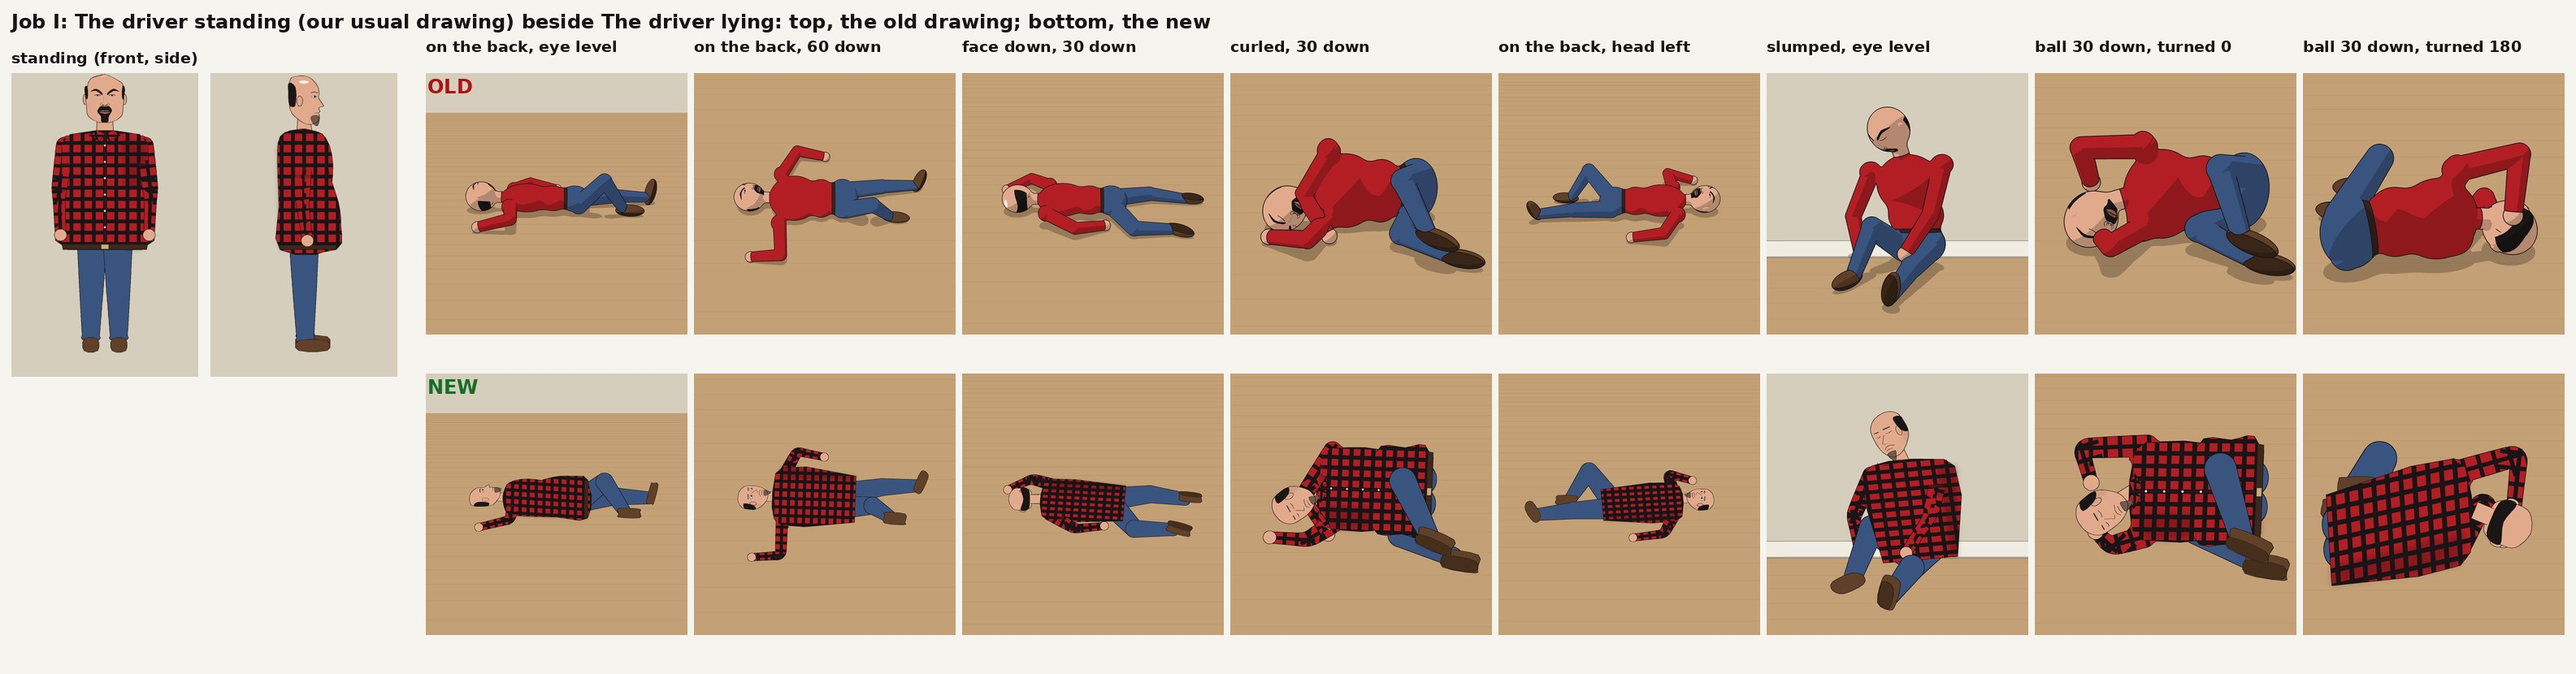
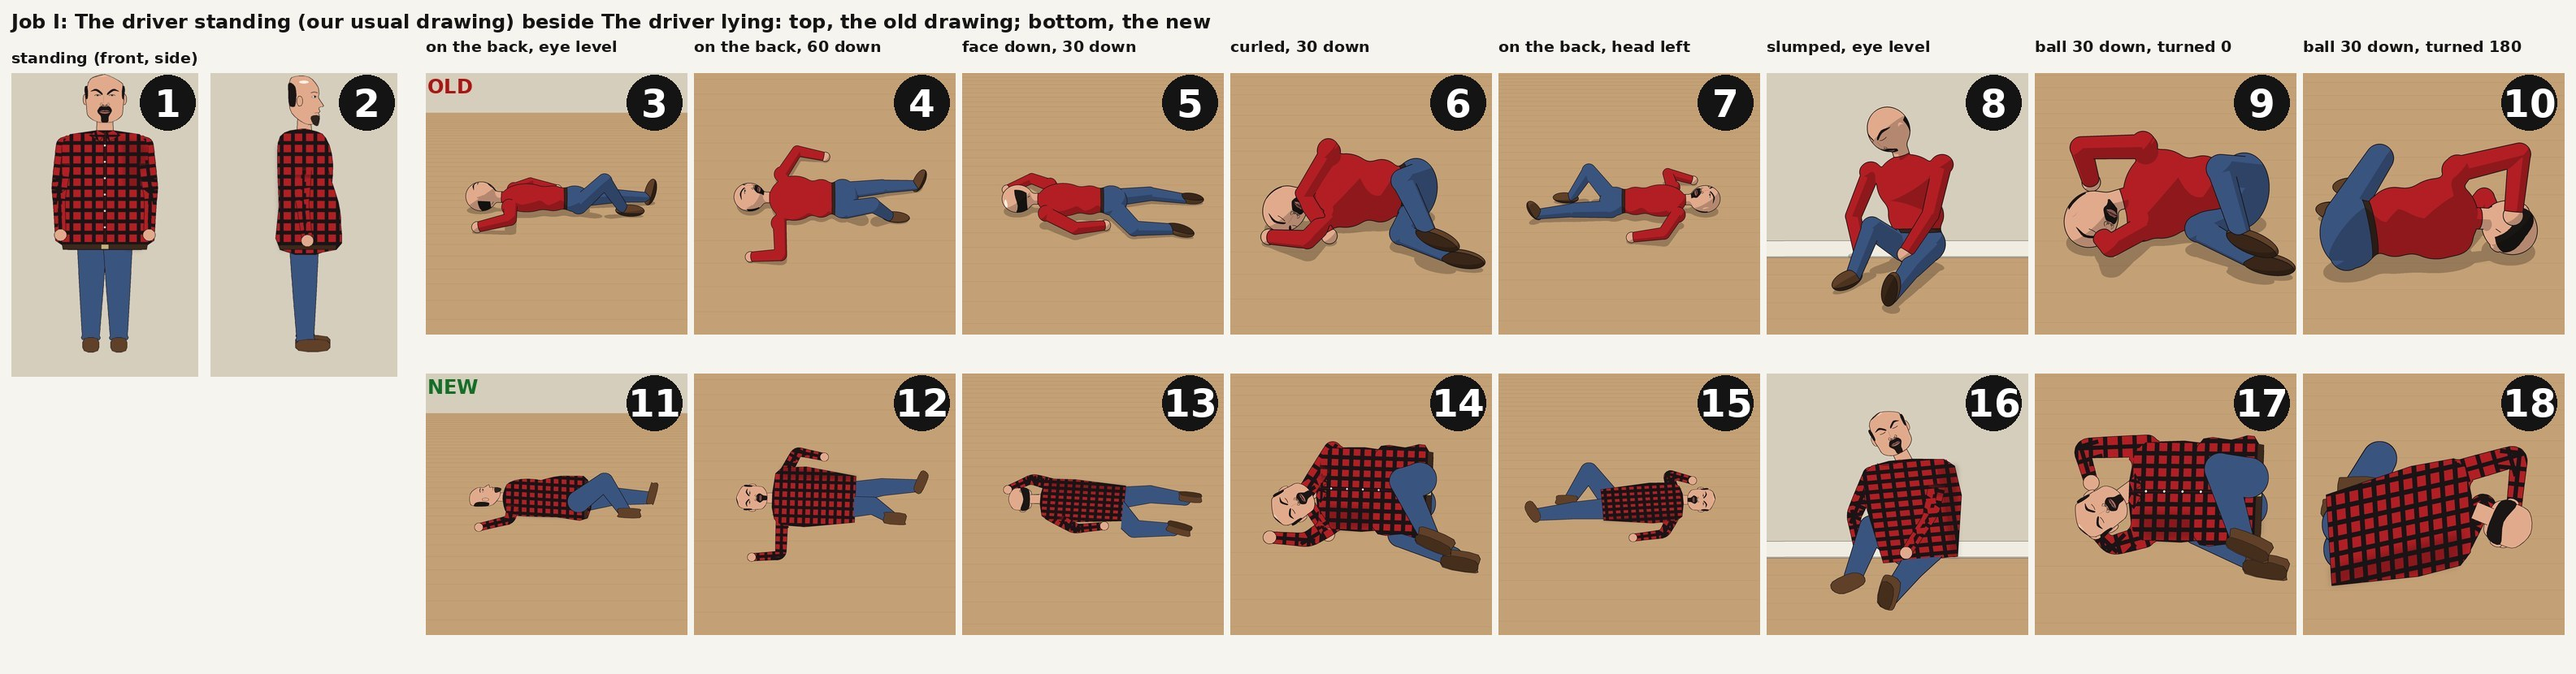
Job I round 2: near legs one piece drawn after the trunk (no knee seam, no shin through the chest), lying faces use the face-on drawing, turned goatees dark, no crown shine lying
Claude-Session: https://claude.ai/code/session_01J1JB7Zi4TKa8rBjEFVzT53

diff --git a/source/lying_flat.py b/source/lying_flat.py
@@ -124,7 +124,7 @@ def _torso_fit(cam, k, sp, view_deg, X, up, fwd, M):
 
 
 # ---------------------------------------------------------------------------------------------- pieces
-def _limb_piece(p, pts, widths, col, lw=2.6):
+def _limb_piece(p, pts, widths, col, lw=2.6, keep=None):
     """One limb as ONE shape (Sam, 10 Nov: legs "clipping and not one fluid part"): the thigh and shin as tapered
     pieces with round joints, filled together on a mask, one ink outline round the whole (no lines inside at the knee,
     however tightly it folds)."""
@@ -142,22 +142,41 @@ def _limb_piece(p, pts, widths, col, lw=2.6):
         d.ellipse([c[0] - r, c[1] - r, c[0] + r, c[1] + r], fill=255)
     w = max(1, int(round(p.w(lw))))
     ring = m.filter(ImageFilter.MaxFilter(2 * w + 1))
+    if keep is not None:                              # only the part past the hem shows (its cut has no outline:
+        from PIL import ImageChops                    # the hem's own line is there)
+        a, n = (np.asarray(v, float) for v in keep)
+        a = np.asarray(p.cam.P(*a), float)
+        b = np.asarray(p.cam.P(*(np.asarray(keep[0], float) + n)), float)
+        nn = _unit(b - a)
+        tt = np.array([-nn[1], nn[0]]) * 1e5
+        h = Image.new('L', img.size, 0)
+        ImageDraw.Draw(h).polygon([tuple(a + tt), tuple(a - tt), tuple(a - tt + nn * 1e5), tuple(a + tt + nn * 1e5)],
+                                  fill=255)
+        m, ring = ImageChops.multiply(m, h), ImageChops.multiply(ring, h)
     img.paste(INK, (0, 0), ring)
     img.paste(tuple(col), (0, 0), m)
 
 
 def _leg(p, sc, cam, k, side, sp, M, front=False):
-    """`front`: the knee is nearer than the trunk, drawn after it. The thigh is drawn whole before the trunk (so it
-    comes out from under the hem, never from mid-shirt: the critique, 10 Nov) and only the knee to the shoe here."""
+    """One piece from hip to ankle, one outline (Sam, 10 Nov). `front`: the knee is nearer than the trunk, so the
+    whole leg is drawn after it (Sam, 10 Nov round 2: the knee to the shoe drawn on its own over a thigh under the
+    shirt showed a seam at the knee (13), a ball for a knee (12) and a shin out of the chest (14, 17)). A knee past
+    the hem: only the part past the hem shows, so the leg comes out from under the shirt; a knee drawn up over the
+    shirt: the thigh shows over it from the hip."""
     s = sc.s
     pts = [_proj(cam, k[n + side]) / s for n in ('hip', 'kn', 'an')]
     pts[0] = sc.hips[side]
     lk = sp.get('leg_k', 1.0)
     col = sp.get('trousers', (40, 40, 46))
-    if front:
-        _limb_piece(p, [tuple(pts[1]), tuple(pts[2])], [38 * lk, 27 * lk], col)
-    else:
-        _limb_piece(p, [tuple(q) for q in pts], [48 * lk, 38 * lk, 27 * lk], col)
+    keep = None
+    if front and sc.hem is not None:
+        a, b, up = sc.hem
+        n = np.array([-(b - a)[1], (b - a)[0]])
+        if np.dot(n, up) > 0:
+            n = -n                                     # n points out of the shirt, past the hem
+        if np.dot(pts[1] - a, n) > 0:                  # the knee is past the hem
+            keep = (a, _unit(n))
+    _limb_piece(p, [tuple(q) for q in pts], [48 * lk, 38 * lk, 27 * lk], col, keep=keep)
     _shoe(p, sc, cam, k, side, sp, M)
 
 
@@ -194,6 +213,8 @@ def _head(img, cam, k, sp, t, sc, aff, tag, M):  # -> (HeadCam, view)
     a = yaw_seen(d, Xh, hfwd)
     vd, _ = V.snap(a)
     hv = V.VIEWS[vd]
+    if hv == 'three':                                 # Sam, 10 Nov round 2: the turned faces looked cruder than his
+        hv = 'front'                                  # own face-on one; lying, a face towards us is the face-on one
     neck = np.asarray(aff.P(0, 0)) / B.SS
     hs = _proj(cam, k['head'])
     u = hs - neck
@@ -294,6 +315,9 @@ def draw(img, cam, k, sp, t=0.0, M=None):
     V._E[0] = 0.0
     try:
         sc.shoulders = {sd: (A @ V.project((g * (sw - 14), 60, 0), vd)[0] + tt) / s for sd, g in (('L', -1), ('R', 1))}
+        hy = V.JACKET - 8
+        sc.hem = tuple(np.asarray((A @ V.project(q, vd)[0] + tt) / s, float) for q in ((-sw, hy, 0), (sw, hy, 0)))
+        sc.hem = sc.hem + ((A @ V.project((0, 60, 0), vd)[0] + tt) / s - (sc.hem[0] + sc.hem[1]) / 2,)
         sc.hips = {sd: (A @ V.project((g * 55, V.HIP_Y, 0), vd)[0] + tt) / s for sd, g in (('L', -1), ('R', 1))}
     finally:
         V._E[0] = old
@@ -318,8 +342,8 @@ def draw(img, cam, k, sp, t=0.0, M=None):
     _neck(img, hc, sp_draw)
     if head_behind:
         _head_draw(img, hc, sp_draw, t)
-    for _, key in sorted(first + [v for v in last if v[1][0] == 'leg'], key=lambda v: -v[0]):
-        piece(key)                                    # a leg in front: its thigh first, under the hem
+    for _, key in sorted(first, key=lambda v: -v[0]):
+        piece(key)
     tp = B.Pen(img, aff)
     sp_draw['neck_off'] = True
     if view == 'front':

diff --git a/source/burnham.py b/source/burnham.py
@@ -328,7 +328,8 @@ def hair_front(p, sp, hx, hy, hw, hh, fx):
             p.poly(curve([(hx + sgn * hw, hy + 14), (hx + sgn * (hw + 4), hy - 40), (hx + sgn * hw * 0.8, hy - hh * 0.7),
                           (hx + sgn * hw * 0.7, hy - hh * 0.6), (hx + sgn * (hw - 12), hy - 30),
                           (hx + sgn * (hw - 10), hy + 10)], 4), c, INK, 2.2)
-        p.ell(hx + hw * 0.25, hy - hh * 0.72, hw * 0.22, hh * 0.08, (255, 240, 230), None, rot=0.2)
+        if not sp.get('no_shine'):                    # none lying (it read as a balloon, Sam 10 Nov)
+            p.ell(hx + hw * 0.25, hy - hh * 0.72, hw * 0.22, hh * 0.08, (255, 240, 230), None, rot=0.2)
     elif st == 'wisps':  # an old man's thin white hair round a bald crown
         for sgn in (-1, 1):
             p.poly(curve([(hx + sgn * (hw + 2), hy + 10), (hx + sgn * (hw + 16), hy - 36),

diff --git a/source/views.py b/source/views.py
@@ -527,7 +527,7 @@ def _hair(sp):
 
 def _beard_col(sp):
     skin, c = sp['skin'], sp.get('beard_c', sp.get('hair_c', (90, 80, 74)))
-    light = sp.get('beard') in ('short', 'stubble', 'goatee')
+    light = sp.get('beard') in ('short', 'stubble')   # a goatee as dark as the face-on one (Sam, 10 Nov)
     return blend(skin, c, 0.55 if light else 0.9), blend(skin, c, 0.85 if light else 1.0)
 
 

diff --git a/notes/next-jobs.md b/notes/next-jobs.md
@@ -27,13 +27,19 @@
   shadow under lying people (floor only; shirt shading kept, my pick on Q1); (d) face-up-away can't be drawn by the
   rig: pre-flight now flags it (`lying_flat.face_up_away`, posecheck 'lying: face up away'); sheet shows 'head left'.
   Soles now the shoe's own colour, darker. One fresh critique pass run (found 7; 3 fixed above).
-  **Next for I (chat 3, Opus medium):** Sam's look at the new sheet. Named, not fixed: the slumped shirt reads as a
-  wide box and the arm across it is lost (check on check); the turned goatee reads as a spike (the standing rig's own
-  side view); from behind the hair ring can read as a blindfold and the neck as a block; handcheck can't see lying
-  bodies; second critique pass not run yet. Rules that bite: 41, 30, 89.
-  For Claude: `lying_flat._head` returns (HeadCam, view), `_neck` draws before the trunk (`neck_off` skips the
-  trunk's neck in burnham.torso / views.torso_view); `neck_to` stops views' back-head neck; `lying_flat.py sheet OUT
-  man ball`. Driver's three/three_back check: ad_vanced_notice_cast.torso_view.
+  **Round 2 DONE (10 Nov, chat 3, Opus medium):** Sam: 12 knee bend wrong, 13 a knee segment still shows, 14/17 a
+  leg through the chest not joined to the hips, faces cruder than his face-on one. Why round 1's one-piece leg failed:
+  a leg nearer than the trunk was still split (thigh under the shirt, knee to shoe drawn on its own over it). Now a
+  near leg is one piece drawn after the trunk: past the hem only what shows below it; drawn up, from the hip over the
+  shirt. Lying faces use the face-on drawing wherever they face us (the turned drawing only side on and from behind);
+  turned goatees as dark as the face-on one; no crown shine on the face-on head lying. Checks: lying OK, kittests pass.
+  Sheets `notes/sheets/job-i-driver-sheet-numbered.jpg`, `job-i-round2-closeup.jpg` (sent).
+  **Next for I (chat 4, Opus medium):** Sam's look at the round 2 sheets. Still named, not fixed: the slumped shirt as
+  a wide box with the arm lost in the check; from behind the hair ring as a blindfold; side-on face (11) still the
+  turned drawing; handcheck can't see lying bodies; no critique pass this round. Rules that bite: 41, 30, 89.
+  For Claude: `lying_flat._leg` (front: whole leg after trunk, `keep` half-plane past `sc.hem`), `_head` maps
+  'three' to 'front'; `views._beard_col` goatee dark; `burnham.hair_front` bald shine obeys `no_shine`. Sheet:
+  `lying_flat.py sheet OUT man ball`; `_head` returns (HeadCam, view); `_neck` before the trunk (`neck_off`).
 - **Job K, the "AI ick" fixes (chat 1 done 10 Nov, Opus high, about 2%):** Sam: 1 Y, 2 Y, 4 Y, 6 dropped, 8 N, 3 dropped,
   7 N; 5 waits for an example. **Next for K (overnight build, Opus, high effort, about 2.5%, cap 3%):** "Job K build:
   read notes/next-jobs.md, the Job K line, then notes/job-k-ai-tells.md 'Sam's answers' and Build plan K." Example

diff --git a/story/status.md b/story/status.md
@@ -17,7 +17,7 @@ Read only the section you need (`grep -n '^## ' story/status.md`). Finished film
 Elder Scrolls: Swindon: FINAL sent 9 Nov (36.6 s, 17.9 MB; Sam skipped animatic 6). Waiting for his notes or posting.
 Job H FINISHED 10 Nov (overnight, Sam's "just go"): the critique checklist (37 lines from Sam's past notes) and `source/critique.py`, the fresh-eye critique every film now runs before an animatic (pre-flight refuses without it); calibrated on Elder Swindon.
 Job G chat 4 done 10 Nov: lying checks and the pre-flight pose check built; Job G now waits only for Sam's Y/N on merging rules 41, 42, 81.
-Job I round 1 of Sam's notes done 10 Nov: legs one piece, smaller heads, no lying shadows, face-up-away flagged; sheet sent.
+Job I round 2 of Sam's notes done 10 Nov: near legs one piece from the hip, lying faces match his face-on face; sheets sent, Sam's look next.
 Job K done 10 Nov (overnight): the 'AI ick' review; 8 proposals wait for Sam's Y/N (`notes/job-k-ai-tells.md`).
 Next: Sam's Y/N on Job K's proposals; the next film is the critique's first real trial. Handover: notes/next-jobs.md "Where things stand".
 - **Next jobs (handover in `notes/next-jobs.md`):** (1) sitting-animation kit: CLOSED 9 Nov (Sam: finished; questions 9-10 kept as built); (2) forearm-and-elbow check for rule 78: built 8 Nov (`kitchecks.rests`; films list resting arms in `RESTS`). Rules 74, 78, 79 written 7 Nov; the touch check now says COULD NOT TEST.
